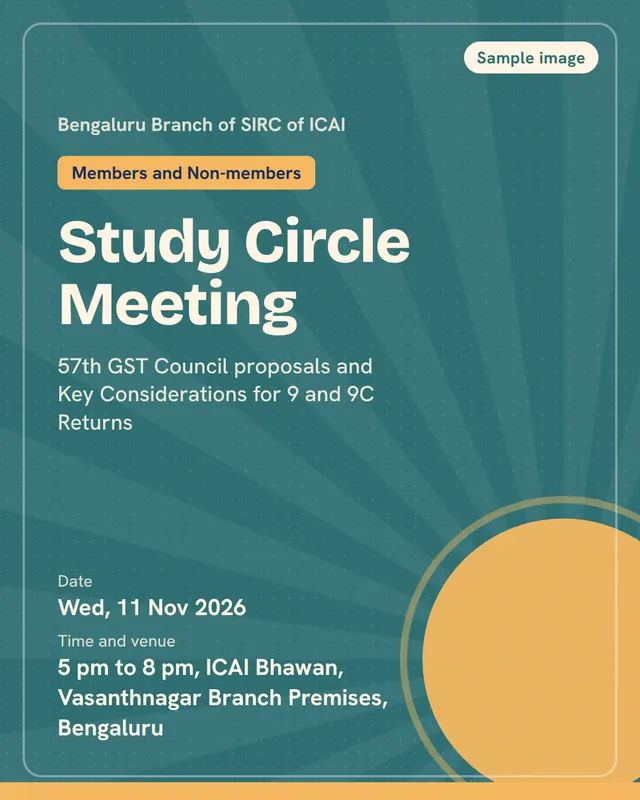
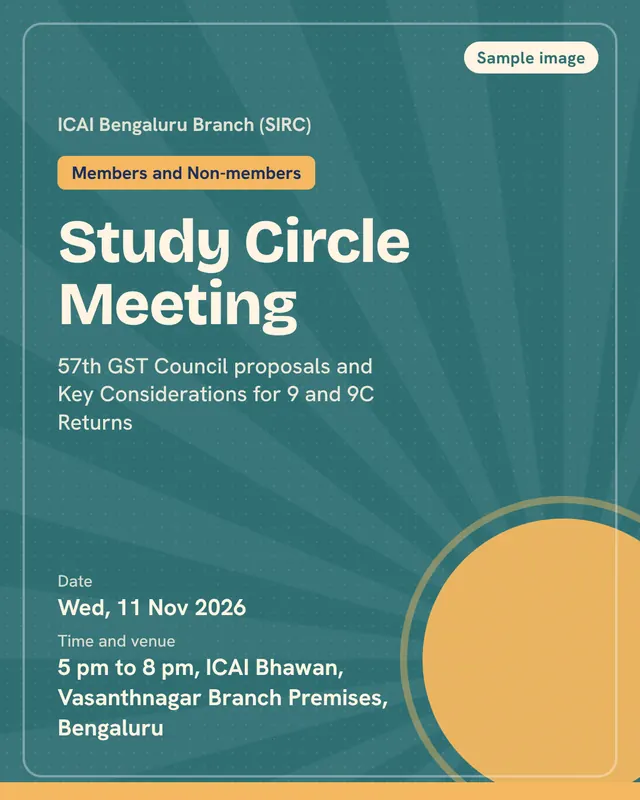
Rename to ICAI Bengaluru Branch (SIRC) everywhere
Claude-Session: https://claude.ai/code/session_01Qr2n31mPc9r6vSmwCJi8ug

Changed region(s): [[0.0938, 0.125, 0.5312, 0.1875]]

diff --git a/src/data/policies.js b/src/data/policies.js
@@ -3,8 +3,8 @@ export const POLICIES = {
  "refund": {
   "title": "Refund policy",
   "body": [
-   "No refund of registration fee will be made by BANGALORE BRANCH of SIRC of ICAI, once the registration application is satisfactorily accepted.",
-   "It is the responsibility of the Member to understand the eligibility requirements of BANGALORE BRANCH of SIRC of ICAI before deciding to register for the ONLINE REGISTARTION. If the Member registers and then determines that he/she is ineligible for admission to the Program/Event of his/her choice, no application registration-fee refund will be made.",
+   "No refund of registration fee will be made by ICAI Bengaluru Branch (SIRC), once the registration application is satisfactorily accepted.",
+   "It is the responsibility of the Member to understand the eligibility requirements of ICAI Bengaluru Branch (SIRC) before deciding to register for the ONLINE REGISTARTION. If the Member registers and then determines that he/she is ineligible for admission to the Program/Event of his/her choice, no application registration-fee refund will be made.",
    "Course fee shall not be refunded once the Member registered to the Event.",
    "All policies and procedures shall be as laid down by Board of Studies of the Institute of Chartered Accountants of India."
   ]
@@ -12,7 +12,7 @@ export const POLICIES = {
  "cancellation": {
   "title": "Cancellation policy",
   "body": [
-   "Candidates need to ensure that the information submitted by them is correct and true in all respects. In case any information is found to be incorrect or false at a later date, BANGALORE BRANCH of SIRC of ICAI shall have the right to cancel the application registration. In the event of the cancellation of the application registration due to furnishing of incorrect/false information, the fee paid by the candidate will not be refunded except as decided by the management of BANGALORE BRANCH of SIRC of ICAI."
+   "Candidates need to ensure that the information submitted by them is correct and true in all respects. In case any information is found to be incorrect or false at a later date, ICAI Bengaluru Branch (SIRC) shall have the right to cancel the application registration. In the event of the cancellation of the application registration due to furnishing of incorrect/false information, the fee paid by the candidate will not be refunded except as decided by the management of ICAI Bengaluru Branch (SIRC)."
   ]
  },
  "privacy": {
@@ -43,11 +43,11 @@ export const POLICIES = {
    "Please read these terms carefully before using the online payment facility. Using the online payment facility on this website indicates that you accept these terms. If you do not accept these terms do not use this facility.",
    "All payments are subject to the following conditions:",
    "The description of courses are specific to you (i.e. Programme Name, start and end date etc.) when you log in with your unique password. Normally payment is required in advance (i.e. before you commence your programme).",
-   "All Fees quoted are in Indian Rupees. The Bangalore Branch of SIRC of ICAI reserves the right to change the fees at any time.",
-   "Your payment will normally reach The Bangalore Branch of SIRC of ICAI account to which you are making a payment within two working days.",
-   "We cannot accept liability for a payment not reaching the correct The Bangalore Branch of SIRC of ICAI account due to you quoting an incorrect account number or incorrect personal details. Neither can we accept liability if payment is refused or declined by the credit/debit card supplier for any reason.",
-   "If the card supplier declines payment The Bangalore Branch of SIRC of ICAI is under no obligation to bring this fact to your attention. You should check with your bank/credit/debit card supplier that payment has been deducted from your account.",
-   "In no event will The Bangalore Branch of SIRC of ICAI be liable for any damages whatsoever arising out of the use, inability to use, or the results of use of this site, any websites linked to this site, or the materials or information contained at any or all such sites, whether based on warranty, contract, tort or any other legal theory and whether or not advised of the possibility of such damages."
+   "All Fees quoted are in Indian Rupees. ICAI Bengaluru Branch (SIRC) reserves the right to change the fees at any time.",
+   "Your payment will normally reach the ICAI Bengaluru Branch (SIRC) account to which you are making a payment within two working days.",
+   "We cannot accept liability for a payment not reaching the correct ICAI Bengaluru Branch (SIRC) account due to you quoting an incorrect account number or incorrect personal details. Neither can we accept liability if payment is refused or declined by the credit/debit card supplier for any reason.",
+   "If the card supplier declines payment ICAI Bengaluru Branch (SIRC) is under no obligation to bring this fact to your attention. You should check with your bank/credit/debit card supplier that payment has been deducted from your account.",
+   "In no event will ICAI Bengaluru Branch (SIRC) be liable for any damages whatsoever arising out of the use, inability to use, or the results of use of this site, any websites linked to this site, or the materials or information contained at any or all such sites, whether based on warranty, contract, tort or any other legal theory and whether or not advised of the possibility of such damages."
   ]
  }
 }

diff --git a/index.html b/index.html
@@ -4,7 +4,7 @@
     <meta charset="UTF-8" />
     <meta name="viewport" content="width=device-width, initial-scale=1.0" />
     <title>Event registration | Bengaluru ICAI</title>
-    <meta name="description" content="Register for seminars, study circles and SICASA events of the Bengaluru Branch of SIRC of ICAI. Book for yourself or your whole team in one go." />
+    <meta name="description" content="Register for seminars, study circles and SICASA events of the ICAI Bengaluru Branch (SIRC). Book for yourself or your whole team in one go." />
     <meta name="robots" content="%VITE_ROBOTS%" />
     <meta name="referrer" content="strict-origin-when-cross-origin" />
     <meta name="color-scheme" content="light" />
@@ -25,20 +25,20 @@
     <meta property="og:site_name" content="Bengaluru ICAI Event Registration" />
     <meta property="og:locale" content="en_IN" />
     <meta property="og:url" content="%VITE_SITE_URL%/" />
-    <meta property="og:title" content="Event Registration | Bengaluru Branch of SIRC of ICAI" />
+    <meta property="og:title" content="Event Registration | ICAI Bengaluru Branch (SIRC)" />
     <meta property="og:description" content="Seminars, study circles and SICASA events. Book for yourself or your whole team in one go." />
     <meta property="og:image" content="%VITE_SITE_URL%/og-image.jpg" />
     <meta property="og:image:type" content="image/jpeg" />
     <meta property="og:image:width" content="1200" />
     <meta property="og:image:height" content="630" />
-    <meta property="og:image:alt" content="Bengaluru Branch of SIRC of ICAI event registration, with a drawing of Vidhana Soudha and the city" />
+    <meta property="og:image:alt" content="ICAI Bengaluru Branch (SIRC) event registration, with a drawing of Vidhana Soudha and the city" />
 
     <!-- Link previews on X (Twitter) -->
     <meta name="twitter:card" content="summary_large_image" />
-    <meta name="twitter:title" content="Event Registration | Bengaluru Branch of SIRC of ICAI" />
+    <meta name="twitter:title" content="Event Registration | ICAI Bengaluru Branch (SIRC)" />
     <meta name="twitter:description" content="Seminars, study circles and SICASA events. Book for yourself or your whole team in one go." />
     <meta name="twitter:image" content="%VITE_SITE_URL%/og-image.jpg" />
-    <meta name="twitter:image:alt" content="Bengaluru Branch of SIRC of ICAI event registration, with a drawing of Vidhana Soudha and the city" />
+    <meta name="twitter:image:alt" content="ICAI Bengaluru Branch (SIRC) event registration, with a drawing of Vidhana Soudha and the city" />
   </head>
   <body>
     <noscript>Please turn on JavaScript to register for events.</noscript>

diff --git a/src/components/Layout.jsx b/src/components/Layout.jsx
@@ -30,12 +30,12 @@ export function Header() {
       <div className="wrap">
         <div className="brand">
           <a href="https://bangaloreicai.org" className="brand-logo" title="Go to bangaloreicai.org">
-            <img src={logo} alt="The Institute of Chartered Accountants of India, go to the Bengaluru Branch website" width="128" height="60" />
+            <img src={logo} alt="The Institute of Chartered Accountants of India, go to the ICAI Bengaluru Branch (SIRC) website" width="128" height="60" />
           </a>
           <span className="divider" />
           <Link to="/" className="brand-text" aria-label="Event registration home">
             <strong>Event Registration</strong>
-            <small>Bengaluru Branch of SIRC of ICAI</small>
+            <small>ICAI Bengaluru Branch (SIRC)</small>
           </Link>
         </div>
         <nav className="head-links" aria-label="Main">
@@ -76,7 +76,7 @@ export function Footer() {
       </div>
       <div className="wrap foot-grid">
         <div>
-          <h4>Bengaluru Branch of SIRC of ICAI</h4>
+          <h4>ICAI Bengaluru Branch (SIRC)</h4>
           <p>ICAI Bhawan, #16/O, Millers Tank Bed Area, Vasanth Nagar, Bengaluru 560052</p>
           <p style={{ marginTop: 8 }}>
             <a href="tel:+918043944868">080 4394 4868</a>
@@ -114,7 +114,7 @@ export function Footer() {
       </div>
       <div className="foot-base">
         <div className="wrap">
-          <span>© 2026 Bengaluru Branch of SIRC of ICAI</span>
+          <span>© 2026 ICAI Bengaluru Branch (SIRC)</span>
           <a href="https://bangaloreicai.org" target="_blank" rel="noreferrer">
             bangaloreicai.org
           </a>

diff --git a/src/lib/images.js b/src/lib/images.js
@@ -9,7 +9,10 @@ const SAMPLES = Object.fromEntries(
     url,
   ]),
 )
-const SAMPLE_FLAG = 'blricai-events:v1:samples-loaded'
+// Bump the version when the sample posters change. Browsers that saw an older set get the new
+// posters, but images an admin uploaded (saved as data URLs) and samples they removed stay as they are.
+const SAMPLE_FLAG = 'blricai-events:v2:samples-loaded'
+const OLD_FLAGS = ['blricai-events:v1:samples-loaded']
 
 let seeding = null
 function seedSamples() {
@@ -22,9 +25,24 @@ function seedSamples() {
       done = memory.size > 0
     }
     if (done) return
+    let seenBefore = false
+    try {
+      seenBefore = OLD_FLAGS.some((k) => localStorage.getItem(k) === '1')
+    } catch {
+      /* treat as a first visit */
+    }
     for (const [id, url] of Object.entries(SAMPLES)) {
-      memory.set(id, url)
-      await tx('readwrite', (s) => s.put(url, id))
+      let current
+      try {
+        current = await tx('readonly', (s) => s.get(id))
+      } catch {
+        current = memory.get(id)
+      }
+      const isOldSample = typeof current === 'string' && !current.startsWith('data:')
+      if (isOldSample || (!seenBefore && current == null)) {
+        memory.set(id, url)
+        await tx('readwrite', (s) => s.put(url, id))
+      }
     }
     try {
       localStorage.setItem(SAMPLE_FLAG, '1')

diff --git a/server/src/services/mailer.js b/server/src/services/mailer.js
@@ -35,7 +35,7 @@ export function createMailer(cfg, { transport } = {}) {
   function layout(title, body) {
     return `<!doctype html><html><body style="margin:0;background:#F6F9FD;font-family:Arial,sans-serif;color:#14203D">
 <div style="max-width:600px;margin:0 auto;padding:24px">
-<div style="background:#092D77;color:#fff;border-radius:14px 14px 0 0;padding:18px 22px"><div style="font-size:13px;opacity:.85">Bengaluru Branch of SIRC of ICAI</div><div style="font-size:20px;font-weight:bold">${esc(title)}</div></div>
+<div style="background:#092D77;color:#fff;border-radius:14px 14px 0 0;padding:18px 22px"><div style="font-size:13px;opacity:.85">ICAI Bengaluru Branch (SIRC)</div><div style="font-size:20px;font-weight:bold">${esc(title)}</div></div>
 <div style="background:#fff;border:1px solid #DDE4EF;border-top:0;border-radius:0 0 14px 14px;padding:22px">${body}</div>
 <p style="font-size:12px;color:#56627A;text-align:center;margin-top:14px">This is an automatic email from the branch event registration portal.</p>
 </div></body></html>`

diff --git a/src/pages/EventList.jsx b/src/pages/EventList.jsx
@@ -151,7 +151,7 @@ export default function EventList() {
     <>
       <section className="hero">
         <div className="wrap hero-text">
-          <p className="hero-kicker">Bengaluru Branch of SIRC of ICAI</p>
+          <p className="hero-kicker">ICAI Bengaluru Branch (SIRC)</p>
           <h1>Register for branch events</h1>
           <p className="hero-sub">Seminars, study circles and SICASA events. Book for yourself or your whole team in one go.</p>
         </div>

diff --git a/src/admin/Login.jsx b/src/admin/Login.jsx
@@ -42,7 +42,7 @@ export default function Login() {
         <img className="logo" src={logo} alt="The Institute of Chartered Accountants of India" />
         <h1>Event admin</h1>
         <p className="muted" style={{ marginBottom: 20 }}>
-          Bengaluru Branch of SIRC of ICAI
+          ICAI Bengaluru Branch (SIRC)
         </p>
         <div style={{ display: 'grid', gap: 14 }}>
           <Field label="Email" id="l-email">

diff --git a/src/admin/AdminLayout.jsx b/src/admin/AdminLayout.jsx
@@ -61,7 +61,7 @@ export default function AdminLayout() {
           </span>
           <span>
             <b>Event admin</b>
-            <small>Bengaluru Branch</small>
+            <small>ICAI Bengaluru Branch (SIRC)</small>
           </span>
         </div>
         <nav>

diff --git a/tools/sample_posters.py b/tools/sample_posters.py
@@ -98,7 +98,7 @@ h1{{font-family:B,sans-serif;font-weight:800;font-size:{size}px;line-height:1.02
 <div class="dots"></div><div class="sun"></div><div class="ground"></div><div class="frame"></div>
 <div class="tag">Sample image</div>
 <div class="wrap">
-  <div class="org">Bengaluru Branch of SIRC of ICAI{' &nbsp;|&nbsp; SICASA' if sicasa else ''}</div>
+  <div class="org">ICAI Bengaluru Branch (SIRC){' &nbsp;|&nbsp; SICASA' if sicasa else ''}</div>
   <div class="kind">{html.escape(who)}</div>
   <h1>{html.escape(title)}</h1>
   {f'<p class="topic">{html.escape(topic)}</p>' if topic else ''}

diff --git a/README.md b/README.md
@@ -1,6 +1,6 @@
 # Bengaluru ICAI Event Registration
 
-A separate event registration portal for the Bengaluru Branch of SIRC of ICAI, meant to run on its own subdomain.
+A separate event registration portal for the ICAI Bengaluru Branch (SIRC), meant to run on its own subdomain.
 
 It runs in two ways:
 - **Browser test version** (default): everything is saved in the browser, so it runs free on GitHub Pages with no server.
